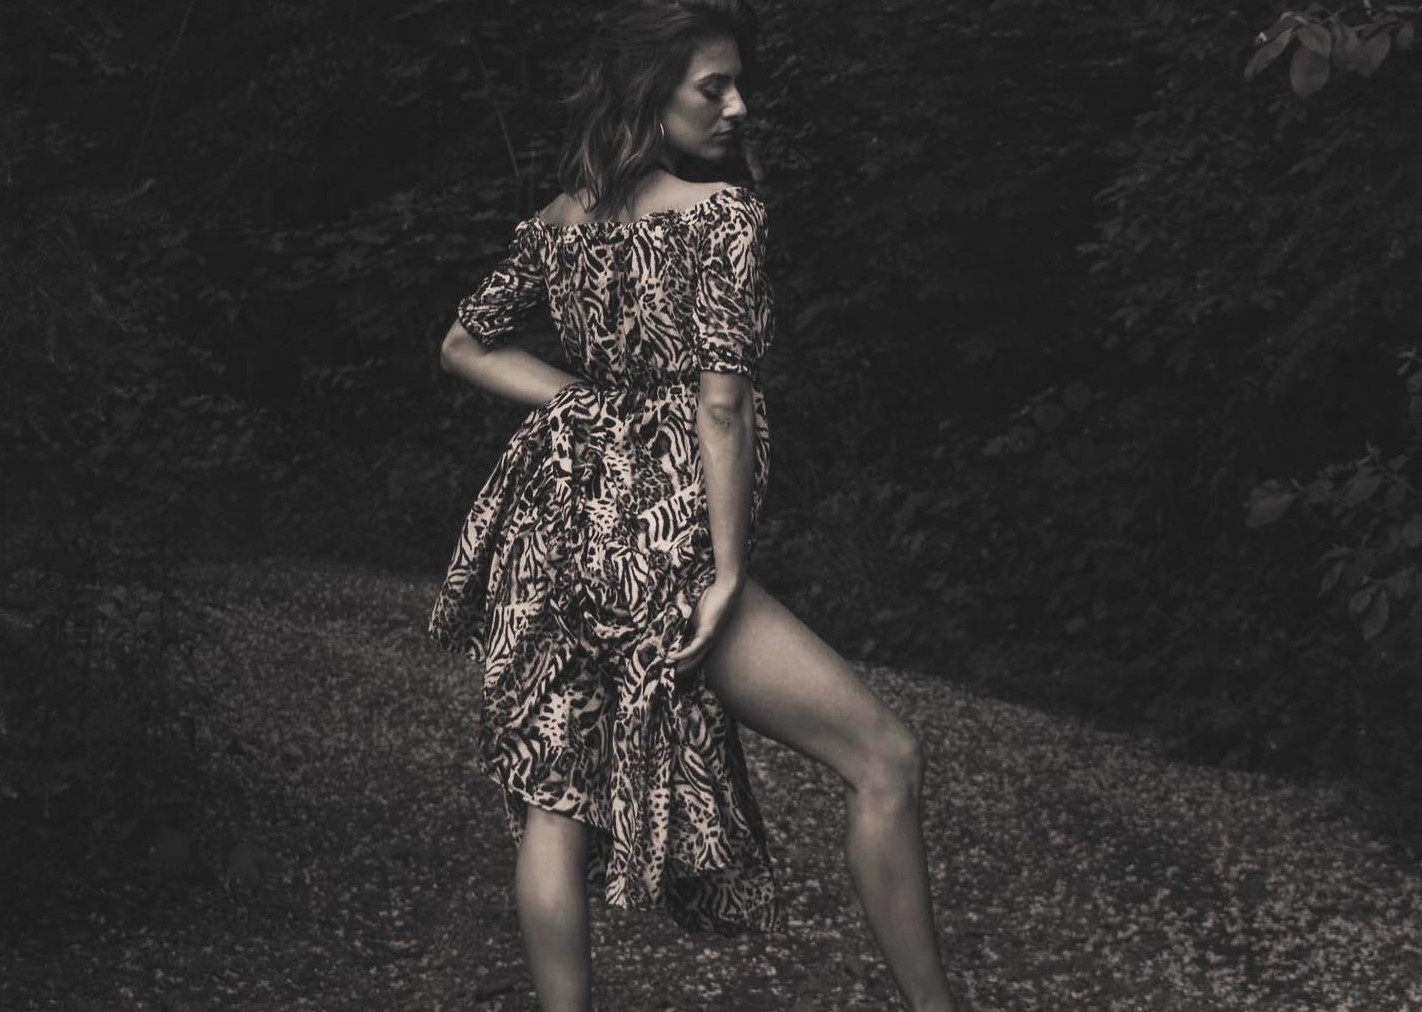
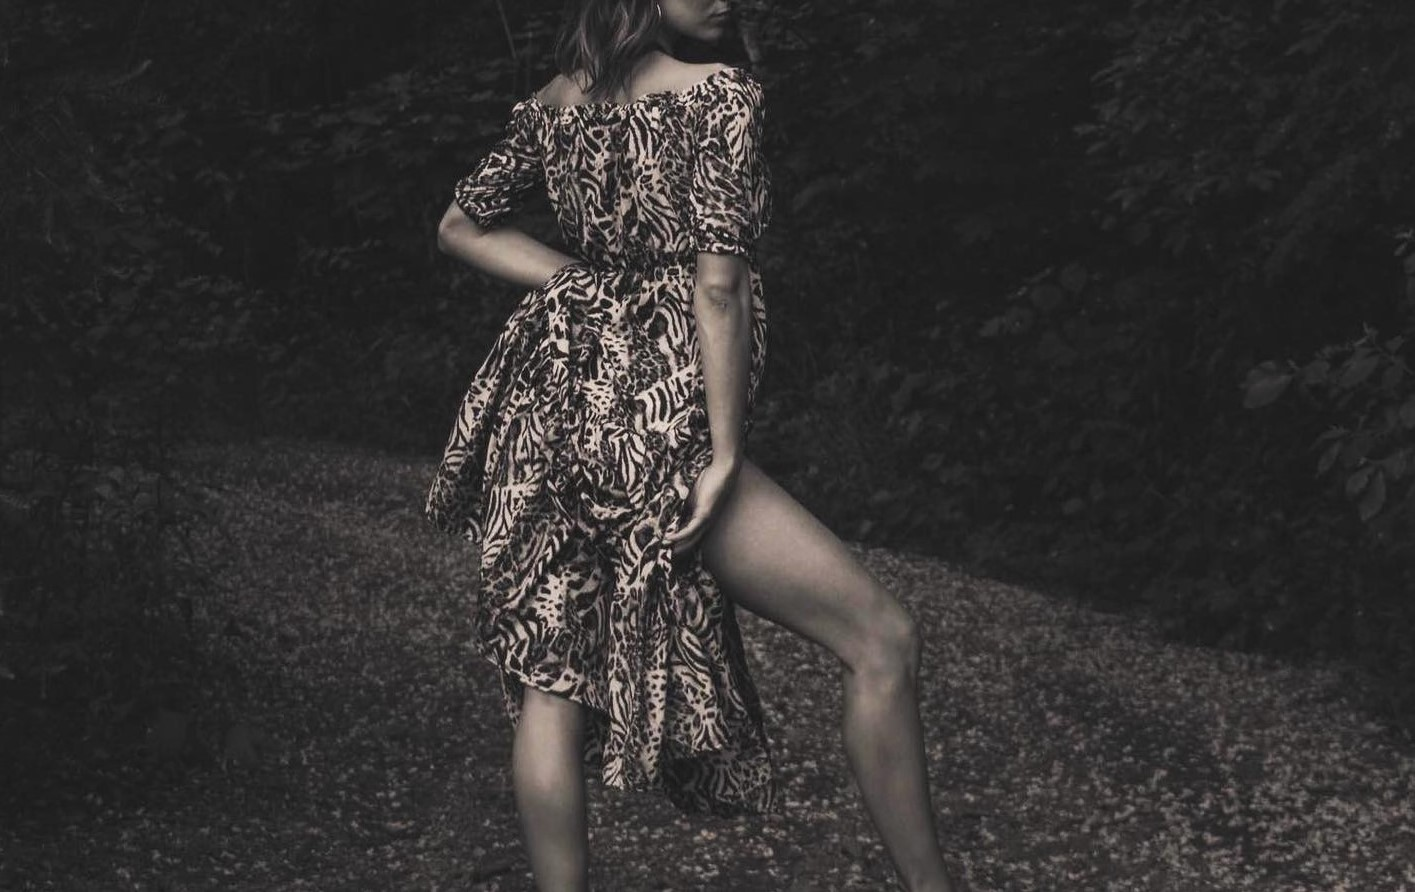
showcase tuned

diff --git a/src/components/home/ShowcaseAlt.js b/src/components/home/ShowcaseAlt.js
@@ -1,7 +1,7 @@
 import React from 'react';
 import { makeStyles } from '@material-ui/styles';
 import Button from '@material-ui/core/Button';
-import showcase from '../../assets/custom02.jpg';
+import showcase from '../../assets/showcasealt.jpg';
 import logoTrans from '../../assets/logo-trans-white.png';
 import { Link } from 'react-router-dom';
 import BagIcon from '@material-ui/icons/LocalMallOutlined';
@@ -14,7 +14,6 @@ const useStyles = makeStyles((theme) => ({
     minHeight: 'inherit',
     padding: '5rem',
     paddingTop: '8rem',
-    // paddingTop: '14rem',
     [theme.breakpoints.down('md')]: {
       padding: '6rem 4rem',
     },
@@ -23,86 +22,53 @@ const useStyles = makeStyles((theme) => ({
     },
   },
   logo: {
-    width: '40vw',
+    width: 600,
+    [theme.breakpoints.down('md')]: {
+      width: 400,
+    },
+    [theme.breakpoints.down('sm')]: {
+      width: 380,
+    },
+    [theme.breakpoints.down('xs')]: {
+      width: 300,
+    },
   },
   infoContainer: {
     ...theme.flex.row,
     marginTop: '2rem',
+    [theme.breakpoints.down('sm')]: {
+      ...theme.flex.col,
+    },
   },
   infoEl: {
     ...theme.typography.mont,
-    fontSize: 24,
-    padding: '1rem 2rem',
+    fontSize: 22,
+    padding: '1rem 1.5rem',
     color: 'white',
     textTransform: 'uppercase',
     [theme.breakpoints.down('md')]: {
-      fontSize: 20,
-    },
-    [theme.breakpoints.down('sm')]: {
       fontSize: 18,
     },
-    [theme.breakpoints.down('xs')]: {
+    [theme.breakpoints.down('sm')]: {
       fontSize: 14,
+    },
+    [theme.breakpoints.down('xs')]: {
+      fontSize: 12,
     },
   },
   sep: {
     color: 'white',
-  },
-  para: {
-    ...theme.typography.sans,
-    fontSize: '1rem',
-    color: 'white',
-    maxWidth: '50%',
-    marginTop: '1rem',
-    opacity: 0.7,
-    [theme.breakpoints.down('md')]: {
-      fontSize: 12,
-    },
     [theme.breakpoints.down('sm')]: {
-      fontSize: 10,
-      maxWidth: '65%',
-    },
-    [theme.breakpoints.down('sm')]: {
-      fontSize: 9,
+      display: 'none',
     },
   },
-  btnPrimary: {
-    ...theme.typography.tab,
-    display: 'flex',
-    alignItems: 'center',
-    marginLeft: 0,
-    borderRadius: 4,
-    background: theme.palette.common.gradient1,
-    color: 'white',
-    padding: '.6rem 3rem .5rem 3rem',
-    fontSize: 12,
-    fontWeight: 'bold',
-    fontFamily: 'Josefin Sans',
-    transition: 'opacity .15s ease-out',
-    cursor: 'pointer',
-    '&:hover': {
-      opacity: 0.9,
-    },
-    [theme.breakpoints.down('md')]: {
-      marginBottom: '1.2rem',
-      marginRight: 'auto',
-      padding: '.5rem 2rem .4rem 2rem',
-      fontSize: 10,
-    },
-    [theme.breakpoints.down('md')]: {
-      marginBottom: '1.2rem',
-      marginRight: 'auto',
-      padding: '.5rem 1rem .4rem 1rem',
-      fontSize: 9,
-    },
-  },
-  bagIcon: {
-    fontSize: '1.2rem',
-    marginBottom: 5,
-    marginRight: '.6rem',
-    [theme.breakpoints.down('md')]: {
-      fontSize: 14,
-      marginBottom: 2,
+  sepV: {
+    background: 'white',
+    height: 1,
+    width: 70,
+    opacity: '.5',
+    [theme.breakpoints.up('md')]: {
+      display: 'none',
     },
   },
 }));
@@ -110,35 +76,27 @@ const useStyles = makeStyles((theme) => ({
 const Showcase = () => {
   const classes = useStyles();
   return (
-    // <div className={classes.showcase}>
-    <Parallax
-      bgImage={showcase}
-      bgImageAlt='luk design showcase'
-      strength={300}
-    >
-      <div className={classes.container}>
-        <img src={logoTrans} alt='logo' className={classes.logo} />
-        <div className={classes.infoContainer}>
-          <div className={classes.infoEl}>Dance couture</div>
-          <div className={classes.sep}> | </div>
-          <div className={classes.infoEl}>Wedding dresses</div>
-          <div className={classes.sep}> | </div>
-          <div className={classes.infoEl}>Custom tailoring</div>
-        </div>
-
-        {/* <div className={classes.btnContainer}>
-          <div
-            className={classes.btnPrimary}
-            onClick={() => {
-              window.open('https://www.shopify.com');
-            }}
-          >
-            <BagIcon className={classes.bagIcon} />
-            <span>shop online</span>
+    <div style={{ backgroundColor: 'rgba(0,0,0,1)' }}>
+      <Parallax
+        bgImage={showcase}
+        bgImageStyle={{ opacity: '.75' }}
+        bgImageAlt='luk design showcase'
+        strength={300}
+      >
+        <div className={classes.container}>
+          <img src={logoTrans} alt='logo' className={classes.logo} />
+          <div className={classes.infoContainer}>
+            <div className={classes.infoEl}>Dance couture</div>
+            <div className={classes.sep}> | </div>
+            <div className={classes.sepV} />
+            <div className={classes.infoEl}>Wedding dresses</div>
+            <div className={classes.sep}> | </div>
+            <div className={classes.sepV} />
+            <div className={classes.infoEl}>Custom tailoring</div>
           </div>
-        </div> */}
-      </div>
-    </Parallax>
+        </div>
+      </Parallax>
+    </div>
   );
 };
 

diff --git a/src/components/home/Slogan.js b/src/components/home/Slogan.js
@@ -45,7 +45,7 @@ const useStyles = makeStyles((theme) => ({
     },
   },
   header: {
-    ...theme.typography.serif,
+    ...theme.typography.mont,
     fontSize: 36,
     marginBottom: '2rem',
     position: 'relative',
@@ -74,9 +74,10 @@ const useStyles = makeStyles((theme) => ({
     },
   },
   para: {
-    ...theme.typography.sans,
+    ...theme.typography.mont,
     maxWidth: '90%',
     opacity: 0.8,
+    lineHeight: 1.5,
     [theme.breakpoints.down('md')]: {
       fontSize: 14,
     },
